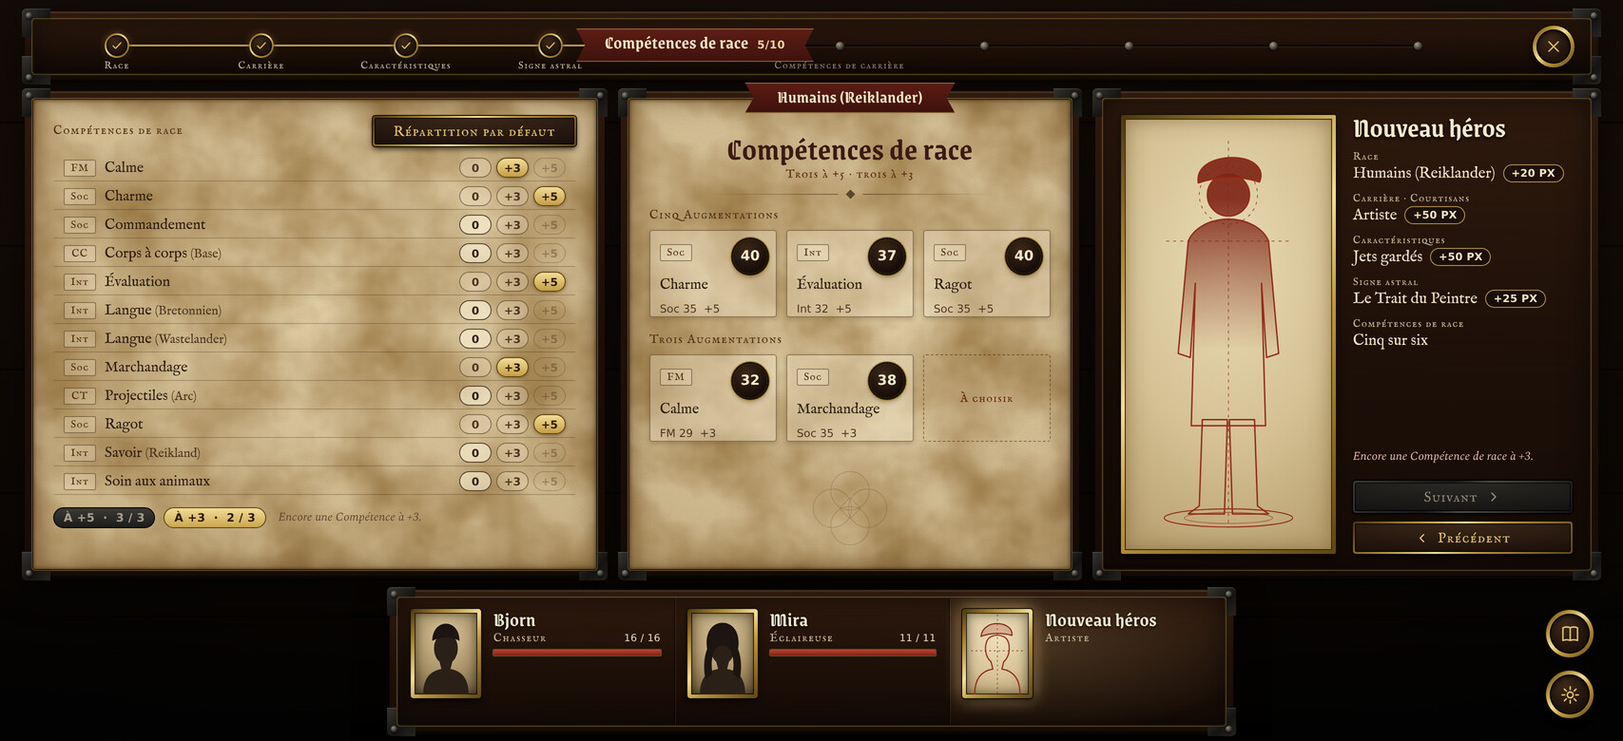
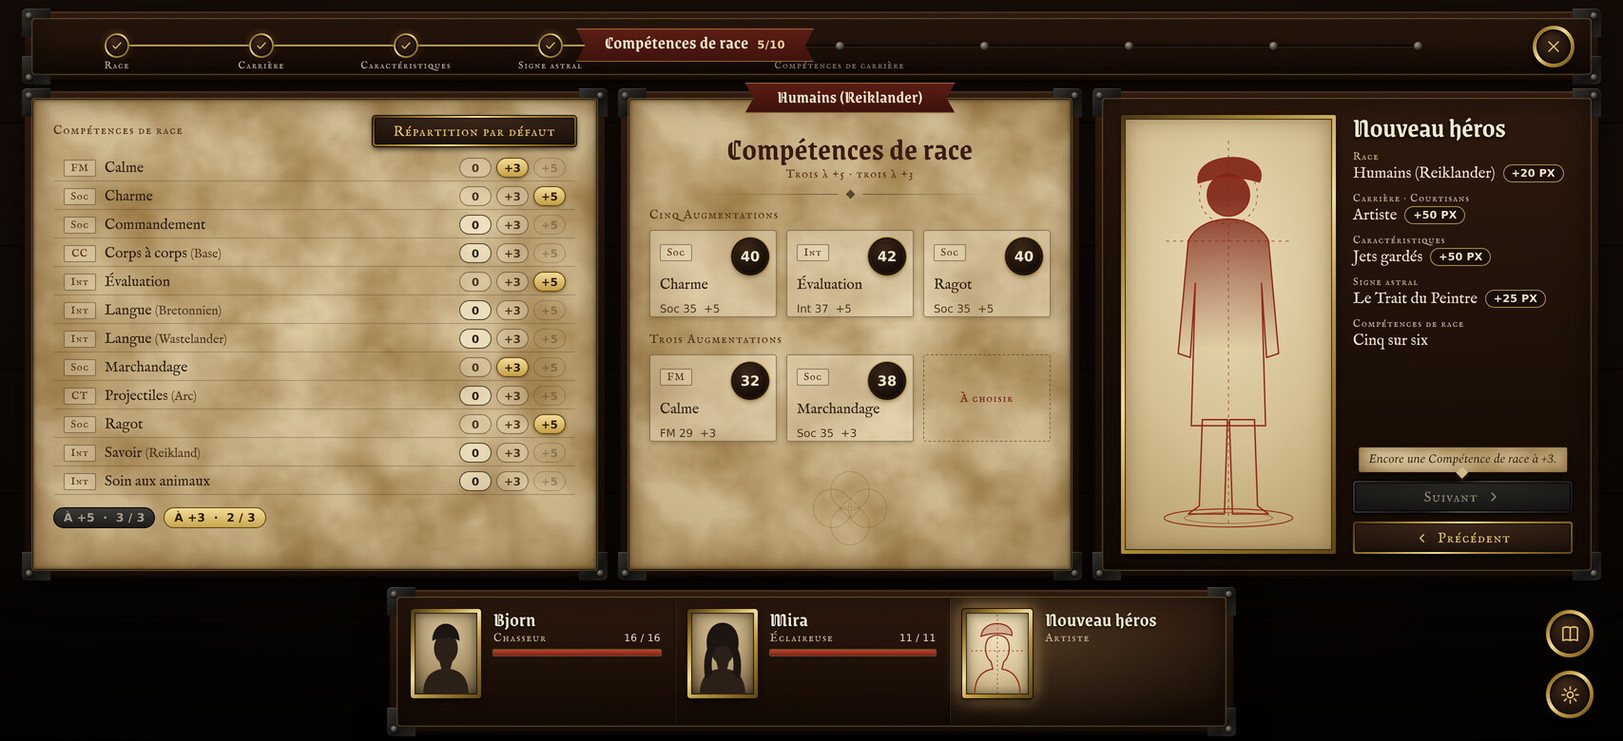
fix(godot): maquettes héros et accueil alignées sur la règle et la charte des gestes (refs #4411)
Claude-Session: https://claude.ai/code/session_01319Eij4YBDVrTGQVfomn4e

diff --git a/hotes/godot/cibles/propositions/sources/accueil-et-systeme/sauvegardes.js b/hotes/godot/cibles/propositions/sources/accueil-et-systeme/sauvegardes.js
@@ -1,38 +1,11 @@
-/* Charger et sauvegarder (#3935) : quatre feuillets du carnet de route posés sur la table, l'automatique d'abord. */
-const vignette = (genre) => {
-  const tete = `<svg viewBox="0 0 336 150" preserveAspectRatio="xMidYMid slice"><defs>
-    <linearGradient id="v-soir" x1="0" y1="0" x2="0" y2="1"><stop offset="0" stop-color="#241f4a"/><stop offset=".55" stop-color="#8a4a62"/><stop offset=".85" stop-color="#f0a45c"/><stop offset="1" stop-color="#f6c877"/></linearGradient>
-    <linearGradient id="v-nuit" x1="0" y1="0" x2="0" y2="1"><stop offset="0" stop-color="#0a0d22"/><stop offset=".7" stop-color="#2a2a5a"/><stop offset="1" stop-color="#5a4a78"/></linearGradient>
-    <linearGradient id="v-jour" x1="0" y1="0" x2="0" y2="1"><stop offset="0" stop-color="#5a7a9a"/><stop offset=".7" stop-color="#c9c0a0"/><stop offset="1" stop-color="#e8d8a8"/></linearGradient>
-    <radialGradient id="v-lune"><stop offset="0" stop-color="#fff6dc" stop-opacity=".9"/><stop offset=".3" stop-color="#ffe2a8" stop-opacity=".35"/><stop offset="1" stop-color="#ffe2a8" stop-opacity="0"/></radialGradient></defs>`;
-  const sap = (x, y, h, c) => `<path d="M${x},${y - h}l${h * .28},${h * .9}h${-h * .56}z" fill="${c}"/>`;
-  if (genre === 'bourg') return tete + `<rect width="336" height="150" fill="url(#v-soir)"/>
-    <path d="M0,110l40,-30l44,24l50,-36l60,40l50,-28l92,36v40H0z" fill="#4d3d6c"/>
-    <g fill="#1a1328"><path d="M0,150V104l22,-18l22,18v-8l26,-20l26,20v54zM96,150V92l30,-24l30,24v58zM150,150V60l-4,0l18,-34l18,34h-4v90zM186,150V96l26,-20l26,20v-6l30,-22l30,22v60zM298,150V100l19,-14l19,14v50z"/><path d="M163,26v-12l10,4l-10,4" fill="#9c2a1a"/></g>
-    <g fill="#ffd98a"><rect x="16" y="112" width="5" height="7"/><rect x="60" y="100" width="5" height="7"/><rect x="74" y="118" width="5" height="7"/><rect x="112" y="98" width="6" height="8"/><rect x="134" y="118" width="6" height="8"/><rect x="161" y="72" width="5" height="9"/><rect x="161" y="100" width="5" height="9"/><rect x="204" y="106" width="5" height="7"/><rect x="246" y="98" width="6" height="8"/><rect x="270" y="118" width="6" height="8"/><rect x="312" y="112" width="5" height="7"/></g></svg>`;
-  if (genre === 'route') return tete + `<rect width="336" height="150" fill="url(#v-jour)"/>
-    <path d="M0,96l50,-26l60,22l56,-30l70,34l100,-20v74H0z" fill="#7d8a78"/>
-    ${[12, 30, 52, 70, 252, 276, 300, 322].map((x, i) => sap(x, 118 + (i % 3) * 4, 46 + (i % 4) * 9, '#263026')).join('')}
-    <path d="M0,150V122c80,-10 220,-10 336,2v26z" fill="#1c1a14"/>
-    <path d="M120,150c30,-22 70,-28 110,-30c-20,6 -44,16 -56,30z" fill="#6b5a40"/>
-    <g fill="#14100c"><path d="M150,118v-22c0,-4 2,-6 6,-6h44c4,0 6,2 6,6v22zM146,90h64v-4h-64z"/><circle cx="162" cy="121" r="9"/><circle cx="196" cy="121" r="9"/><path d="M206,108h26l14,-10l8,2l-4,8l-6,2v12h-3v-10h-16v10h-3v-12h-16z"/></g></svg>`;
-  return tete + `<rect width="336" height="150" fill="url(#v-nuit)"/>
-    <circle cx="268" cy="34" r="38" fill="url(#v-lune)"/><circle cx="268" cy="34" r="11" fill="#fff3d0"/>
-    <g fill="#fff" opacity=".7"><circle cx="30" cy="20" r="1"/><circle cx="84" cy="38" r=".8"/><circle cx="140" cy="16" r="1"/><circle cx="196" cy="30" r=".8"/><circle cx="318" cy="70" r="1"/><circle cx="56" cy="60" r=".8"/></g>
-    ${[8, 26, 300, 322].map((x, i) => sap(x, 126, 60 + i * 6, '#0c0e18')).join('')}
-    <g fill="#100c14"><path d="M70,150V84l56,-40l56,40v-10l40,-26l40,26v76z"/><path d="M92,84v-34h12v26z"/><path d="M262,86h30v3h-30zM284,89v6h-12v16h18v-16h-3v-6"/></g>
-    <g fill="#ffd98a"><rect x="88" y="96" width="12" height="14"/><rect x="118" y="96" width="12" height="14"/><rect x="150" y="96" width="12" height="14"/><rect x="204" y="92" width="10" height="12"/><rect x="232" y="92" width="10" height="12"/><path d="M118,150v-22a8 8 0 0 1 16 0v22z"/><rect x="275" y="98" width="12" height="10" opacity=".8"/></g>
-    <path d="M0,150v-10c100,-8 240,-8 336,0v10z" fill="#08060c"/></svg>`;
-};
-const GROUPE = ['bjorn', 'mira', 'aldric', 'greta'];
-const feuillet = ({ nom, lieu, date, reel, genre, sauver = true, charge = false, vide = false }) => `
+/* Charger et sauvegarder (#3935) : quatre feuillets du carnet de route posés sur la table, l'automatique d'abord.
+   Un feuillet dit ce que la sauvegarde porte (src/noyau/persistance/save.ts:26-34) : lieu, date du jeu, heure réelle. */
+const feuillet = ({ nom, lieu, date, reel, sauver = true, charge = false, vide = false }) => `
   <div class="feuillet cadre bois ${charge ? 'vise' : ''} ${vide ? 'vide' : ''}"><div class="fond parchemin"><span class="ruban rubrique">${nom}</span>
     ${vide ? `<div class="blanc"><div class="filet-l"><i></i></div><em>— vide —</em><div class="filet-l"><i></i></div></div>` : `
-    <div class="vue">${vignette(genre)}</div>
     <div class="lieu gothique" data-texte="lieu ${lieu}">${lieu}</div>
     <div class="date rubrique">${date}</div>
     <div class="filet-l"><i></i></div>
-    <div class="groupe">${GROUPE.map((g) => portrait(g)).join('')}</div>
     <div class="reel lin">Sauvegardée le ${reel}</div>`}
     <div class="gestes">${vide ? '' : plaque('Charger', { armee: charge })}${sauver ? plaque('Sauvegarder') : ''}</div>
   </div>${ferrures}</div>`;
@@ -42,9 +15,9 @@ monter([
   titre({ icone: 'disque', nom: 'Sauvegardes', sous: 'Steinbruck · 14 Pflugzeit 2512 CI · 18:20', largeur: 430 }),
   croix(),
   `<div id="feuillets" data-piece="emplacements">
-    ${feuillet({ nom: 'Emplacement automatique', lieu: 'Steinbruck', date: '14 Pflugzeit 2512 CI · 18:05', reel: '16/11/2026 21:48', genre: 'bourg', sauver: false, charge: true })}
-    ${feuillet({ nom: 'Emplacement 1', lieu: 'La route de Weissbruck', date: '12 Pflugzeit 2512 CI · 15:40', reel: '15/11/2026 23:12', genre: 'route' })}
-    ${feuillet({ nom: 'Emplacement 2', lieu: 'Auberge La Diligence', date: '33 Jahrdrung 2512 CI · 21:30', reel: '13/11/2026 20:05', genre: 'auberge' })}
+    ${feuillet({ nom: 'Emplacement automatique', lieu: 'Steinbruck', date: '14 Pflugzeit 2512 CI · 18:05', reel: '16/11/2026 21:48', sauver: false, charge: true })}
+    ${feuillet({ nom: 'Emplacement 1', lieu: 'La route de Weissbruck', date: '12 Pflugzeit 2512 CI · 15:40', reel: '15/11/2026 23:12' })}
+    ${feuillet({ nom: 'Emplacement 2', lieu: 'Auberge La Diligence', date: '33 Jahrdrung 2512 CI · 21:30', reel: '13/11/2026 20:05' })}
     ${feuillet({ nom: 'Emplacement 3', vide: true })}
   </div>`,
   `<div id="avis" data-piece="avis">${sceau('disque', 14)}<span class="ombre">Emplacement 3 : sauvegarde d’un autre format, retirée.</span></div>`,

diff --git a/hotes/godot/cibles/propositions/sources/heros/creation-signe-astral.js b/hotes/godot/cibles/propositions/sources/heros/creation-signe-astral.js
@@ -1,6 +1,6 @@
 /* Création 4/10 : le signe astral (ADE II 03 l.36-63 ; src/data/stars.json). */
 const SIGNES = ["Wymund l'Anachorète", 'La Grande Croix', 'Le Trait du Peintre', 'Gnuthus le Buffle', 'Dragomas le Dragon', 'Le Crépuscule', 'Le Fourreau de Grungni', 'Mammit le Sage', 'Mummit le Fou', 'Les Deux Bœufs',
-  'Le Danseur', 'Le Tambour', 'Le Flûtiste', 'Vobist le Pâle', 'La Charrette Brisée', 'La Chèvre Sauvage', 'Le Chaudron de Rhya', 'Cackelfax le Coq', 'La Scie à Os'];
+  'Le Danseur', 'Le Tambour', 'Le Flûtiste', 'Vobist le Pâle', 'La Charrette Brisée', 'La Chèvre Sauvage', 'Le Chaudron de Rhya', 'Cackelfax le Coq', 'La Scie à Os', "L'Étoile du Sorcier"];
 /* quatre signes sous un même rang du d100, départagés au d10 (stars.json, `sub`) : [d10, variante] */
 const ETOILE_DU_SORCIER = [['1-3', 'Sixième sens'], ['4-6', 'Seconde vue'], ['7-9', 'Magie mineure'], ['10', 'Sorcier !']];
 const CHOISI = 'Le Trait du Peintre';
@@ -43,7 +43,7 @@ poser([
       <div class="lignes">${SIGNES.slice(0, 10).map(ligneDeSigne).join('')}</div>
       <div class="lignes">${SIGNES.slice(10).map(ligneDeSigne).join('')}</div>
     </div>
-    <div class="ligne" style="height:34px;border-bottom:0;padding-right:0"><i class="losange"></i><span class="n" data-texte="L'Étoile du Sorcier">L'Étoile du Sorcier</span><div class="pills" style="flex:none;flex-wrap:nowrap;gap:5px">${ETOILE_DU_SORCIER.map(([d, v]) => `<span class="pill" style="padding:0 8px"><b class="lin" style="font-size:10.5px;margin-right:5px">${d}</b>${v}</span>`).join('')}</div></div>`),
+    <div style="display:flex;align-items:center;gap:10px;margin-top:9px">${rub('Sa variante')}<div class="pills" style="flex-wrap:nowrap;gap:5px">${ETOILE_DU_SORCIER.map(([d, v]) => `<span class="pill" style="padding:0 8px"><b class="lin" style="font-size:10.5px;margin-right:5px">${d}</b>${v}</span>`).join('')}</div></div>`),
   centre('Signe de la Précision', `
     <div class="vignette laiton" style="height:140px;margin-top:10px">${ciel()}</div>
     <div class="nom" style="margin-top:9px" data-texte="nom du signe">Le Trait du Peintre</div>

diff --git a/hotes/godot/cibles/propositions/sources/accueil-et-systeme/sauvegardes.css b/hotes/godot/cibles/propositions/sources/accueil-et-systeme/sauvegardes.css
@@ -1,14 +1,10 @@
-#feuillets{position:absolute;left:70px;top:150px;display:flex;gap:26px}
-.feuillet{position:relative;width:372px;height:478px}
+#feuillets{position:absolute;left:70px;top:226px;display:flex;gap:26px}
+.feuillet{position:relative;width:372px;height:286px}
 .feuillet .fond{padding:26px 14px 14px;display:flex;flex-direction:column}
 .feuillet.vise{box-shadow:0 14px 34px rgba(0,0,0,.6),0 0 0 1px #0c0705,0 0 0 2px rgba(226,192,106,.75),0 0 30px rgba(255,214,140,.45)}
-.feuillet .vue{height:150px;border-radius:1px;overflow:hidden;box-shadow:0 0 0 1px #1a1005,0 0 0 3px #8a6a26,0 0 0 4px #1a1005,0 3px 8px rgba(40,20,5,.5)}
-.feuillet .vue svg{display:block;width:100%;height:100%}
 .feuillet .lieu{font-size:27px;line-height:44px;margin:8px 0 -8px;color:#3a1a10;text-align:center;white-space:nowrap}
 .feuillet .date{font-size:14.5px;color:#3a2a18;text-align:center;white-space:nowrap}
 .feuillet .filet-l{color:#5a4530;margin:10px 46px 10px}
-.feuillet .groupe{display:flex;justify-content:center;gap:9px}
-.feuillet .groupe .portrait{width:44px;height:54px;padding:3px}
 .feuillet .reel{font-size:11.5px;color:#4a3420;text-align:center;margin-top:9px}
 .feuillet .gestes{display:flex;gap:9px;margin-top:auto}
 .feuillet .gestes .plaque{height:42px}
@@ -17,5 +13,5 @@
 .feuillet .blanc{flex:1;display:flex;flex-direction:column;justify-content:center;gap:14px;text-align:center;padding:0 60px}
 .feuillet .blanc em{font-size:19px;color:#4a3420}
 .feuillet .blanc .filet-l{margin:0;color:#6b5a40}
-#avis{position:absolute;left:74px;top:664px;display:flex;align-items:center;gap:11px;font-style:italic;font-size:15px;color:#f0c8b4}
+#avis{position:absolute;left:74px;top:548px;display:flex;align-items:center;gap:11px;font-style:italic;font-size:15px;color:#f0c8b4}
 #avis .sceau{width:28px;height:28px}

diff --git a/hotes/godot/cibles/propositions/sources/accueil-et-systeme/nouvelle-partie.js b/hotes/godot/cibles/propositions/sources/accueil-et-systeme/nouvelle-partie.js
@@ -130,10 +130,10 @@ monter([
        ${plaque('Lancer', { armee: true, icone: 'route' })}
        <div class="cachet">${sceau('route', 17)}</div>
      </div>
-     ${avis('', 'left:18px;top:320px;transform:rotate(-1.6deg)', 'ancre', 'La Barge du Sel')}
-     ${avis('', 'left:36px;top:375px;transform:rotate(1.2deg)', 'ancre', 'Le Loup et la Saumure')}
-     ${avis('', 'left:20px;top:430px;transform:rotate(-.8deg)', 'epee', 'L’Arène')}
-     ${avis('', 'left:34px;top:485px;transform:rotate(1deg)', 'plume', 'Les Caves de Weissbruck')}
+     ${avis('', 'left:18px;top:292px;transform:rotate(-1.6deg)', 'ancre', 'La Barge du Sel')}
+     ${avis('', 'left:36px;top:345px;transform:rotate(1.2deg)', 'ancre', 'Le Loup et la Saumure')}
+     ${avis('', 'left:20px;top:398px;transform:rotate(-.8deg)', 'epee', 'L’Arène')}
+     ${avis('', 'left:34px;top:451px;transform:rotate(1deg)', 'plume', 'Les Caves de Weissbruck')}
    </div>${ferrures}</div>`,
   `<div id="bandeau" class="cadre bois" data-piece="bandeau"><div class="fond bois">${GROUPE.map((h) => `
      <div class="heros">${portrait(h.id)}
@@ -148,6 +148,6 @@ monter([
        <div class="dit"><p>Le groupe peut partir à trois.</p></div></div>
      </div>
    </div>${ferrures}</div>`,
-  retour('Quitter la partie'),
+  croix(),
   `<div id="coins" data-piece="coins">${rond('systeme', 23)}</div>`,
 ]);

diff --git a/hotes/godot/cibles/propositions/sources/heros/creation-competences-de-race.js b/hotes/godot/cibles/propositions/sources/heros/creation-competences-de-race.js
@@ -14,7 +14,7 @@ poser([
   gauche(`
     <div style="display:flex;align-items:center;justify-content:space-between;margin-bottom:7px">${rub('Compétences de race')}${plaque('Répartition par défaut', { style: 'flex:none;width:214px;height:32px' })}</div>
     <div class="lignes">${COMPETENCES.map(ligneDeRace).join('')}</div>
-    <div style="display:flex;align-items:center;gap:9px;margin-top:13px"><span class="jeton fer">À +5 &nbsp;·&nbsp; 3 / 3</span><span class="jeton or">À +3 &nbsp;·&nbsp; 2 / 3</span><span class="rub" style="margin-left:4px"><span class="note">Encore une Compétence à +3.</span></span></div>`),
+    <div style="display:flex;align-items:center;gap:9px;margin-top:13px"><span class="jeton fer">À +5 &nbsp;·&nbsp; 3 / 3</span><span class="jeton or">À +3 &nbsp;·&nbsp; 2 / 3</span></div>`),
   centre('Humains (Reiklander)', `
     <div class="nom" style="margin-top:12px" data-texte="titre de page">Compétences de race</div>
     <div class="sous">Trois à +5 · trois à +3</div>

diff --git a/hotes/godot/cibles/propositions/sources/heros/heros.css b/hotes/godot/cibles/propositions/sources/heros/heros.css
@@ -39,6 +39,7 @@
 .ligne>.n small{font-size:13.5px;color:#4a3420}
 .ligne.choisie{border:2px solid #a8842f;border-radius:3px;background:linear-gradient(180deg,rgba(255,246,208,.9),rgba(228,203,134,.8));box-shadow:0 0 0 1px rgba(60,40,10,.75),0 2px 5px rgba(60,35,5,.35)}
 .ligne.refusee{position:relative;color:rgba(42,29,18,.42)}
+.ligne.refusee .bulle-refus{left:auto;right:6px;transform:none}
 .ligne.refusee .tag{opacity:.45}
 .ligne .raison{font-family:"Fell SC";font-size:10.5px;letter-spacing:.9px;color:rgba(107,28,16,.75)}
 .losange{flex:none;width:6px;height:6px;transform:rotate(45deg);border:1.2px solid #4a3420;margin:0 4px}

diff --git a/hotes/godot/cibles/propositions/sources/accueil-et-systeme/accueil.js b/hotes/godot/cibles/propositions/sources/accueil-et-systeme/accueil.js
@@ -107,7 +107,7 @@ monter([
      <div class="camp gothique ombre">L’Ennemi Intérieur</div>
    </div>`,
   `<div id="entrees" data-piece="entrées">
-     ${plaque('Reprendre', { armee: true, icone: 'jouer' })}
+     ${plaque('Continuer', { armee: true, icone: 'jouer' })}
      <div class="dernier ombre"><span class="rubrique">Steinbruck</span> · 14 Pflugzeit 2512 CI · 18:20</div>
      ${plaque('Jouer', { icone: 'route' })}
      ${plaque('Jouer en ligne', { icone: 'reseau' })}

diff --git a/hotes/godot/cibles/propositions/sources/accueil-et-systeme/nouvelle-partie.css b/hotes/godot/cibles/propositions/sources/accueil-et-systeme/nouvelle-partie.css
@@ -14,7 +14,7 @@
 #recruter .plaque{height:34px}
 #recruter .plaque>div{font-size:14.5px}
 
-#panneau{left:1322px;top:20px;width:362px;height:566px}
+#panneau{left:1322px;top:74px;width:362px;height:528px}
 #panneau .fond{padding:26px 14px 0}
 .affiche{position:relative;padding:22px 18px 16px;text-align:center;box-shadow:0 6px 14px rgba(0,0,0,.6),0 0 0 1px rgba(40,25,10,.9),inset 0 0 22px rgba(90,60,20,.45);border-radius:1px;transform:rotate(.5deg)}
 .affiche .clou{top:8px}

diff --git a/hotes/godot/cibles/propositions/sources/accueil-et-systeme/menu-de-la-partie.js b/hotes/godot/cibles/propositions/sources/accueil-et-systeme/menu-de-la-partie.js
@@ -14,6 +14,7 @@ monter([
      ${plaque('Sauvegardes', { icone: 'disque' })}
      ${plaque('Options', { icone: 'systeme' })}
      ${plaque('Jouer en ligne', { icone: 'reseau' })}
+     ${plaque('Terminer la séance', { icone: 'plume' })}
      <div class="trait"></div>
      ${plaque('Quitter la partie', { icone: 'sortie' })}
      <div class="dernier ombre">Dernière sauvegarde automatique à 18:05.</div>

diff --git a/hotes/godot/cibles/propositions/heros.md b/hotes/godot/cibles/propositions/heros.md
@@ -13,21 +13,27 @@ prix en fer, figure dont la sanguine descend d'étape en étape.
 ## creation-signe-astral (4/10)
 - Le dé d'abord (sceau, signe tiré, +25 PX si gardé : ADE II 03 l.36, `src/engine/creation.ts:53`), les vingt signes
   en deux colonnes, la page du signe sous un ciel nocturne (`src/data/stars.json`).
-- À valider : l'Étoile du Sorcier sur une ligne alors que la donnée a quatre variantes ; champ « Dieux » absent.
+- L'Étoile du Sorcier est le vingtième signe ; ses quatre variantes (Sixième sens, Seconde vue, Magie mineure,
+  Sorcier !) sont en pastilles au pied avec leur rang au d10, et un second sceau « Variante au d10 » reste vide tant
+  qu'un autre signe est tiré (`src/data/stars.json`, ids `l-etoile-du-sorcier-*`, champ `sub`).
+- À valider : champ « Dieux » absent.
 
 ## creation-competences-de-race (5/10)
 - Les douze Compétences de la race, trois pastilles 0 / +3 / +5 chacune ; six cartes au centre ; « Répartition par
-  défaut » (3 à +5, 3 à +3 : LDB 05 l.484).
+  défaut » (3 à +5, 3 à +3 : LDB 05 l.484). Les cartes portent la Caractéristique de la présentation (Int 37,
+  Évaluation 42 à ce stade). « Suivant » fermé, sa raison en bulle au survol.
 
 ## creation-competences-de-carriere (6/10)
 - Huit lignes à dix clous et pastilles −/+, « À répartir » ; la Compétence pressée au centre avec ses
-  spécialisations (40 Augmentations, 10 au plus : LDB 05 l.535).
-- À valider : « Suivant » refusé tant qu'il reste des points ; Augmentations de race non distinguées.
+  spécialisations (40 Augmentations, 10 au plus : LDB 05 l.535). L'Augmentation de race est une pastille de cire
+  devant les dix clous, hors des quarante et des dix ; les Tests sont ceux de la présentation (Évaluation 47,
+  Perception 46).
+- À valider : « Suivant » refusé tant qu'il reste des points.
 
 ## creation-talents (7/10)
 - Race et carrière sur une page ; les trois tirages en sceaux (LDB 05 l.514-531) ; le Talent de carrière parmi quatre
-  lignes, une grisée avec sa raison.
-- À valider : un seul Talent de carrière (`vueDeLaCreation.ts:325`, non relu au livre) ; pastille « Utilisation ».
+  lignes (un seul : LDB 05 l.535), une grisée, sa raison en bulle au survol.
+- À valider : pastille « Utilisation » ; relance d'un Talent en doublon et sorts de Magie mineure non dessinés.
 
 ## creation-possessions (8/10)
 - La bourse au dé (1d10 × Standing : LDB 05 l.578), le seul choix réel en trois lignes, la dotation de Classe en
@@ -35,10 +41,11 @@ prix en fer, figure dont la sanguine descend d'étape en étape.
 - À valider : titre « Le bagage » ; pictogrammes d'objets neufs.
 
 ## creation-identite (9/10)
-- Ce que les dés donnent (sexe, nom, âge 15 + d10 : LDB 05 l.711, taille, yeux, cheveux) ; un feuillet signé où
-  s'écrivent motivation et ambitions.
-- À valider : motivation et ambitions existent au brouillon (`brouillon.ts:160-162`) mais la vue ne les sert pas ;
-  formule de taille non relue au livre.
+- Ce que les dés donnent (sexe, âge 15 + d10 : LDB 05 l.711, taille 145 + 5d10 : l.728, yeux, cheveux), le
+  physique en un seul tirage (plaque « Physique aux dés », `tirerLePhysique`, `vueDeLaCreation.ts:83`) ; le nom tiré
+  ou écrit (LDB 05 l.590) ; un feuillet signé où s'écrivent Motivation (l.432) et Ambitions (l.732), champs à plume.
+- À valider : la vue de l'hôte ne sert pas encore la saisie du nom, de la Motivation et des Ambitions (transition
+  `withEtatCivil`, `brouillon.ts:808` ; #3009).
 
 ## creation-presentation (10/10)
 - Le héros achevé : identité, profil, Compétences, Talents, figure pleine, total des PX, « Engager ».
@@ -48,10 +55,16 @@ prix en fer, figure dont la sanguine descend d'étape en étape.
 ## progression-depense-d-experience
 - Gabarit de la fiche : PX en jeton, exigences du niveau cochées, bande de profil pressable (cases de carrière en
   laiton, les autres en fer), Compétences et Talents de la carrière avec leur prix. Coûts LDB 07 l.51-56, hors
-  carrière doublé l.91, Talent l.105, achèvement l.124-131, changement l.118 ; vue `src/noyau/monde/advancement.ts:138-320`.
-- À valider : onglet de la fiche ou écran à part ; Compétences hors carrière repliées ; achat immédiat sans panier.
+  carrière doublé l.91, Talent l.105, achèvement l.124-131 ; vue `src/noyau/monde/advancement.ts:138-320`.
+- Niveau non achevé : « Niveau suivant » fermé (LDB 07 l.137 ; `src/engine/advancement.ts:197-200`), « Autre
+  carrière 200 PX » (l.118, l.144). Panneau fermé par la croix.
+- À valider : onglet de la fiche ou écran à part ; Compétences hors carrière repliées ; achat immédiat sans panier ;
+  créneau « (Au choix) » et sorts d'un lanceur non dessinés (`advancement.ts:187-205`, `src/engine/grimoire.ts:153-162`).
 
 ## progression-changement-de-carriere
-- Le chemin des quatre niveaux en stations, la page du niveau suivant (« Devenir Sorcière 100 PX » : LDB 07 l.137),
-  une autre carrière par Classe avec son prix (LDB 07 l.144 ; `src/engine/advancement.ts:185-205`).
-- À valider : seules les carrières du Livre de base listées ; saut de niveau (règle optionnelle) absent.
+- Niveau 2 achevé : le chemin des quatre niveaux en stations, le niveau inférieur et le suivant pressables à
+  100 PX, le niveau 4 hors d'atteinte (LDB 07 l.137) ; la page du niveau suivant (« Devenir Maîtresse Sorcière
+  100 PX ») ; une autre carrière par Classe avec son prix (LDB 07 l.144 ; `src/engine/advancement.ts:185-205`).
+  Panneau fermé par la croix.
+- À valider : seules les carrières du Livre de base listées ; saut de niveau et même niveau d'une autre carrière
+  (règle optionnelle, LDB 07 l.140, l.148) absents ; plaque de confirmation de la colonne Carrière non dessinée.

diff --git a/hotes/godot/cibles/propositions/accueil-et-systeme.md b/hotes/godot/cibles/propositions/accueil-et-systeme.md
@@ -10,16 +10,18 @@ affiche et avis cloués ; feuillet de sauvegarde ; titre gothique en dégradé l
 ## accueil
 - La compagnie de dos sur une crête, Altdorf au couchant, la comète à deux queues ; titre gothique doré ; trois
   entrées de jeu en plaques ; les outils en pastilles libellées en bas à droite.
-- Entrées : Reprendre, Jouer, Jouer en ligne, Combat, Atelier, Éditeur, Compendium (`src/hote/accueil.ts:22-30`),
+- Entrées : Continuer (l'entrée `reprendre`), Jouer, Jouer en ligne, Combat, Atelier, Éditeur, Compendium (`src/hote/accueil.ts:22-30`),
   Options (`:39`) ; titre `fr.ts:1223`.
-- À valider : sur-titre et sous-titre ajoutés ; « Reprendre » en premier et armé (le code liste « Jouer » d'abord) ;
-  ligne de la dernière sauvegarde sous « Reprendre » ; hiérarchie jeu et outils ; état « aucune sauvegarde » non
+- « Continuer » charge la dernière sauvegarde, dite sous la plaque ; « Reprendre » reste la fin d'un arrêt de jeu.
+- À valider : sur-titre et sous-titre ajoutés ; « Continuer » en premier et armé (le code liste « Jouer » d'abord) ;
+  l'entrée `reprendre` ouvre aujourd'hui le panneau des sauvegardes (`src/hote/elements.ts:93-95`) : l'hôte doit
+  servir le chargement de l'emplacement le plus récent ; hiérarchie jeu et outils ; état « aucune sauvegarde » non
   dessiné.
 
 ## nouvelle-partie
 - La salle d'une auberge-relais : le groupe attablé, une chaise libre, les voyageurs à recruter debout avec leur
   étiquette ; les campagnes en avis cloués, l'avis choisi déplié avec « Lancer » ; bandeau avec « Renvoyer » et
-  « Place libre ».
+  « Place libre ». L'écran se ferme par la croix.
 - Entrées : pré-tirés (`src/hote/groupe.ts:83`, `src/data/pregens.json`), onglets Pré-tirés et Mes personnages,
   « Créer un personnage », « Importer un personnage… » (`groupe.ts:89`), « Recruter », « Renvoyer », « Lancer » ;
   campagnes (`groupe.ts:91-93`, `src/scenes/campaign.ts:171-182`) et campagne publiée (`src/hote/bibliotheque.ts`).
@@ -27,17 +29,16 @@ affiche et avis cloués ; feuillet de sauvegarde ; titre gothique en dégradé l
   dessinés ; textes ajoutés (« La Compagnie », « Place libre ») ; nom de campagne publiée d'exemple.
 
 ## sauvegardes
-- Quatre feuillets sur la table, l'automatique d'abord : vignette du lieu, lieu en gothique, date impériale, groupe,
-  heure réelle ; avis de retrait scellé.
+- Quatre feuillets sur la table, l'automatique d'abord : ce que la sauvegarde porte, rien d'autre (lieu en
+  gothique, date impériale, heure réelle : `src/noyau/persistance/save.ts:26-34`) ; avis de retrait scellé.
 - Entrées : emplacements (`src/hote/sauvegardes.ts:32-34`, `:139`), Charger si plein (`:146`), Sauvegarder sur les
   manuels (`:147`), avis de retrait (`:153`).
-- À valider : portraits du groupe et vignette du lieu, que la sauvegarde ne porte pas (`src/noyau/persistance/save.ts:26-34`) ;
-  états sans partie et sauvegarde refusée non dessinés.
+- À valider : états sans partie et sauvegarde refusée non dessinés.
 
 ## menu-de-la-partie
 - Le jeu flouté et assombri ; la colonne de l'accueil : Sauvegardes, Options, Jouer en ligne, Quitter la partie
-  (`src/hote/groupe.ts:72-75`).
-- À valider : geste « Reprendre » absent du jeu ; sur-titre « Partie en pause » ; colonne à gauche plutôt qu'au
+  (`src/hote/groupe.ts:72-75`), et « Terminer la séance » (`ouvrirLaFinDeSeance`, `src/noyau/actionsDuNoyau.ts:224`).
+- À valider : écran « Fin de séance » non dessiné ; geste « Reprendre » absent du jeu ; sur-titre « Partie en pause » ; colonne à gauche plutôt qu'au
   centre.
 
 ## options
@@ -46,7 +47,8 @@ affiche et avis cloués ; feuillet de sauvegarde ; titre gothique en dégradé l
   son compte), douze règles par feuillet ; l'aide se déplie sur la règle pointée ; une règle modifiée passe au rouge
   avec « Défaut » (`src/hote/reglages.ts:59-92`, `docs/regles-optionnelles.md`).
 - À valider : un signet par domaine ; douze règles par feuillet ; libellés lisibles des options de liste (le jeu
-  montre les ids) ; volumes en pourcentage ; règles verrouillées en combat non dessinées.
+  montre les ids) ; volumes en pourcentage ; règles verrouillées en combat non dessinées ; action « Regagner la
+  Chance » de la règle `chance-en-cours-de-session` (signet « Destin & Résistance », non ouvert ici).
 
 ## ouverture-de-chapitre
 - Carton plein écran : l'auberge-relais, les deux lunes, la diligence ; sur-titre, titre, tome, chapitre sur toile

diff --git a/hotes/godot/cibles/images.md b/hotes/godot/cibles/images.md
@@ -63,10 +63,10 @@ Aucune cible écrite. Le contenu vient de `src/hote/accueil.ts`, `groupe.ts`, `s
 
 | État | Intention | Choix à valider |
 |---|---|---|
-| `accueil` | la compagnie face à Altdorf, jeu en plaques, outils en pastilles | « Reprendre » en premier ; sur-titre et sous-titre ajoutés |
+| `accueil` | la compagnie face à Altdorf, jeu en plaques, outils en pastilles | « Continuer » en premier, qui charge la dernière sauvegarde ; sur-titre et sous-titre ajoutés |
 | `nouvelle-partie` | la salle d'une auberge-relais, le groupe attablé, les voyageurs à recruter, les campagnes en avis cloués | cinq voyageurs visibles à la fois ; espèce absente de l'étiquette |
-| `sauvegardes` | quatre feuillets sur la table, l'automatique d'abord | portraits du groupe et vignette du lieu, que la sauvegarde ne porte pas |
-| `menu-de-la-partie` | le jeu assombri, la colonne de l'accueil | geste « Reprendre » ; colonne à gauche |
+| `sauvegardes` | quatre feuillets sur la table, l'automatique d'abord, chacun ce que la sauvegarde porte | états sans partie et refus non dessinés |
+| `menu-de-la-partie` | le jeu assombri, la colonne de l'accueil | geste « Reprendre » ; « Terminer la séance » sans son écran ; colonne à gauche |
 | `options` | préférences sur un volet, règles maison dans un registre à quinze signets | douze règles par feuillet ; libellés lisibles des options |
 | `ouverture-de-chapitre` | carton plein écran du chapitre, « Commencer » | compagnie affichée ; texte sur l'image |
 
@@ -77,15 +77,15 @@ n'a pas de cible écrite (`src/noyau/monde/advancement.ts`, LDB 07).
 
 | État | Intention | Choix à valider |
 |---|---|---|
-| `creation-signe-astral` | le dé puis les vingt signes, la page du signe au centre | variantes de l'Étoile du Sorcier ; champ « Dieux » |
+| `creation-signe-astral` | le dé puis les vingt signes, la page du signe au centre | champ « Dieux » |
 | `creation-competences-de-race` | douze lignes à trois paliers, six cartes au centre | aucun |
-| `creation-competences-de-carriere` | huit lignes à dix clous, la Compétence pressée au centre | Augmentations de race non distinguées |
+| `creation-competences-de-carriere` | huit lignes à dix clous, l'Augmentation de race en pastille à part, la Compétence pressée au centre | « Suivant » refusé tant qu'il reste des points |
 | `creation-talents` | race et carrière sur une page, tirages en sceaux | pastille « Utilisation » |
 | `creation-possessions` | la bourse au dé, le bagage en vignettes | pictogrammes d'objets neufs |
-| `creation-identite` | ce que les dés donnent, un feuillet pour motivation et ambitions | motivation et ambitions non servies par la vue |
+| `creation-identite` | ce que les dés donnent, nom, Motivation et Ambitions à la plume | saisies non servies par la vue de l'hôte (#3009) |
 | `creation-presentation` | le héros achevé, « Engager » | la vue ne sert pas tout ce qui est dessiné |
-| `progression-depense-d-experience` | la fiche dont profil, Compétences et Talents deviennent pressables, avec leur prix | onglet de la fiche ou écran à part ; achat immédiat |
-| `progression-changement-de-carriere` | le chemin des quatre niveaux, le niveau suivant, une autre carrière par Classe | carrières listées par livre ; niveaux fermés |
+| `progression-depense-d-experience` | la fiche dont profil, Compétences et Talents deviennent pressables, avec leur prix | onglet de la fiche ou écran à part ; achat immédiat ; créneaux au choix et sorts |
+| `progression-changement-de-carriere` | le chemin des quatre niveaux, inférieur et suivant pressables, une autre carrière par Classe | carrières listées par livre ; saut de niveau |
 
 ## Exploration et récit (2026-11-16)
 
